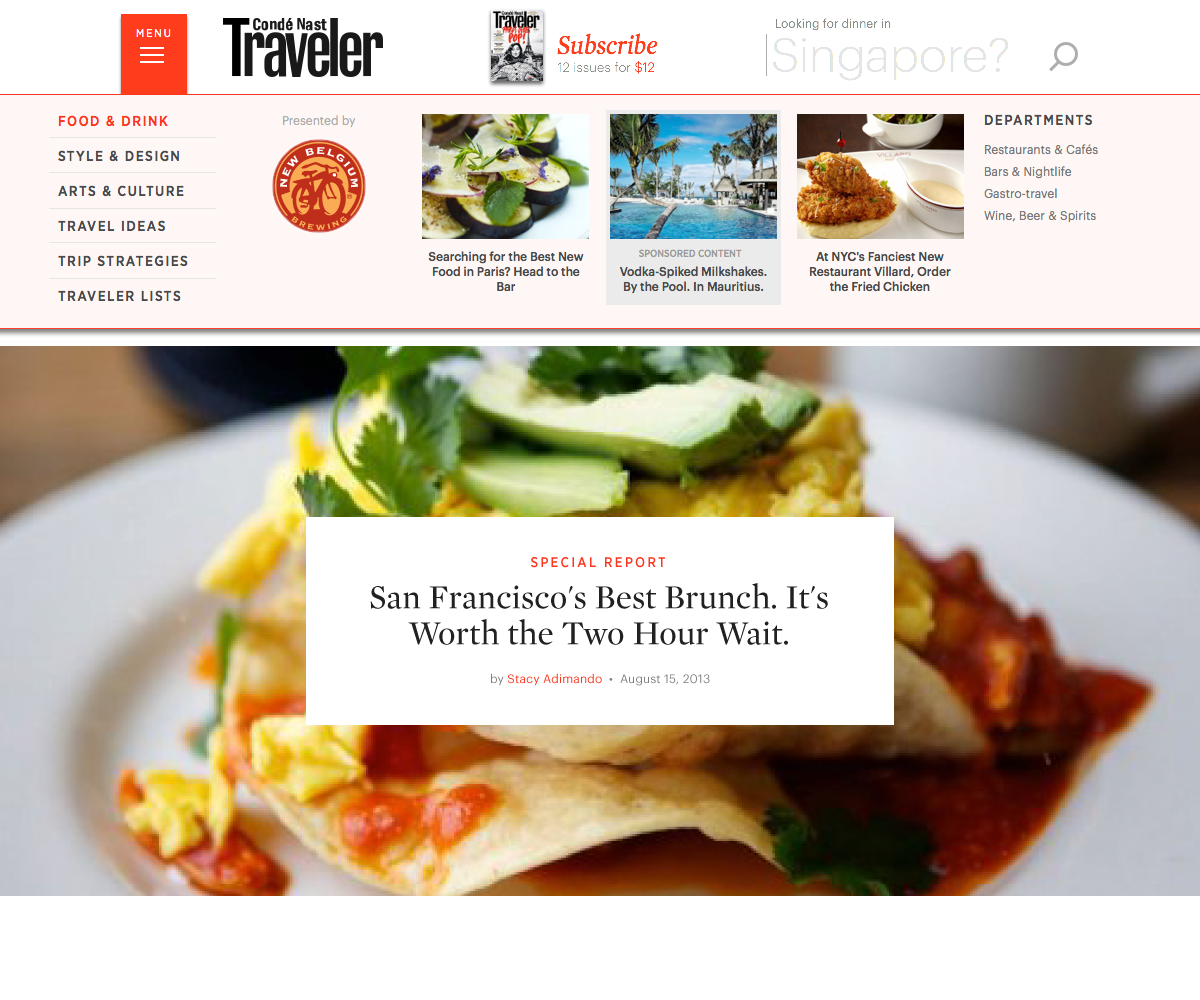
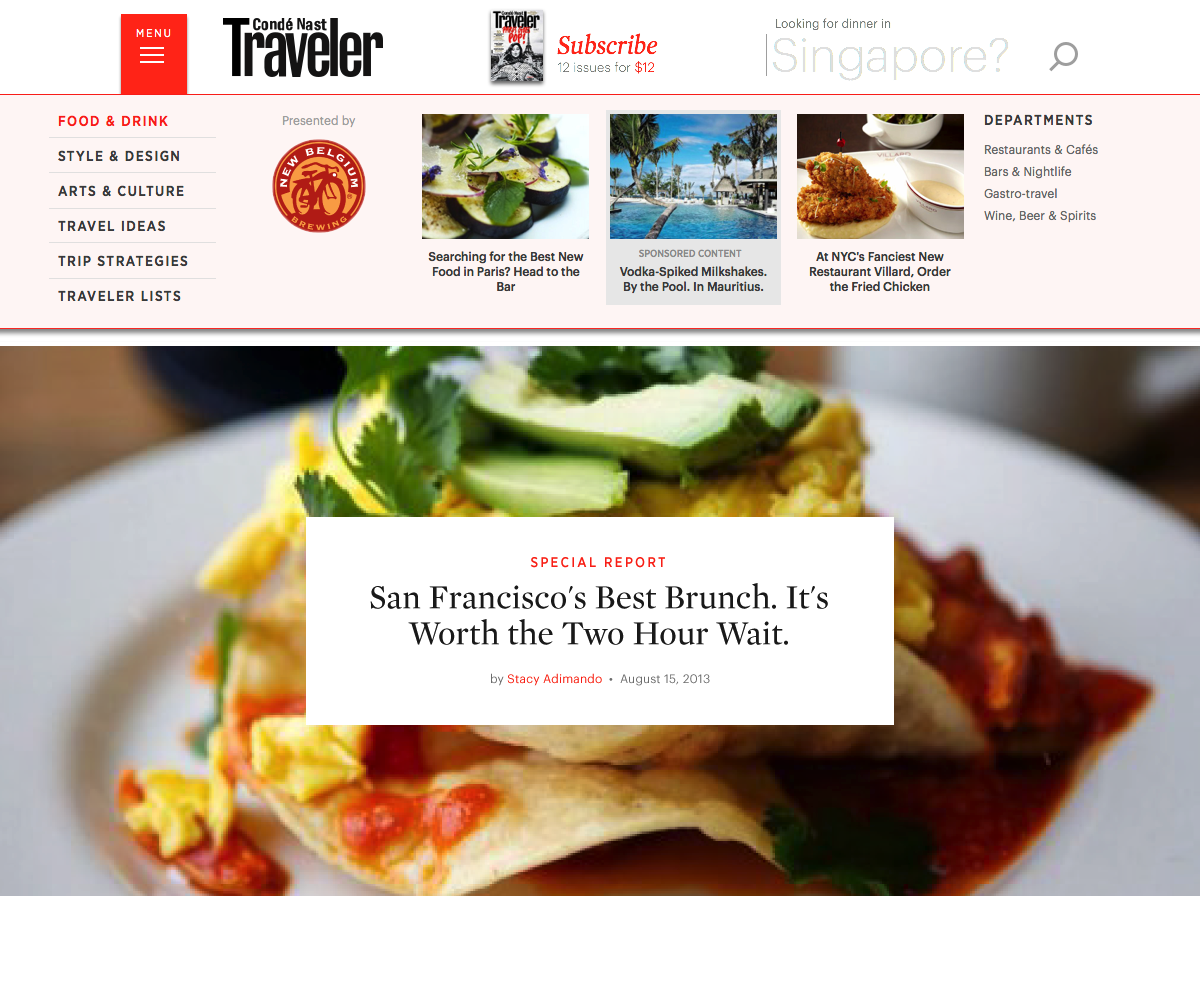
image updates (minor)

Changed region(s): [[0.0617, 0.0, 0.1542, 0.124], [0.4625, 0.031, 0.555, 0.062]]

diff --git a/mocks/drafts/nav11.html b/mocks/drafts/nav11.html
@@ -13,7 +13,7 @@
 	<div id="stuff">
 		<div id="mock-container">
 			<a href="nav1.html">
-				<img src="../../images/working-drafts/nav/112113-nav11.png" alt="" />
+				<img src="../../images/working-drafts/nav/112113-nav11.jpg" alt="" />
 			</a>
 		</div>
 	</div>
